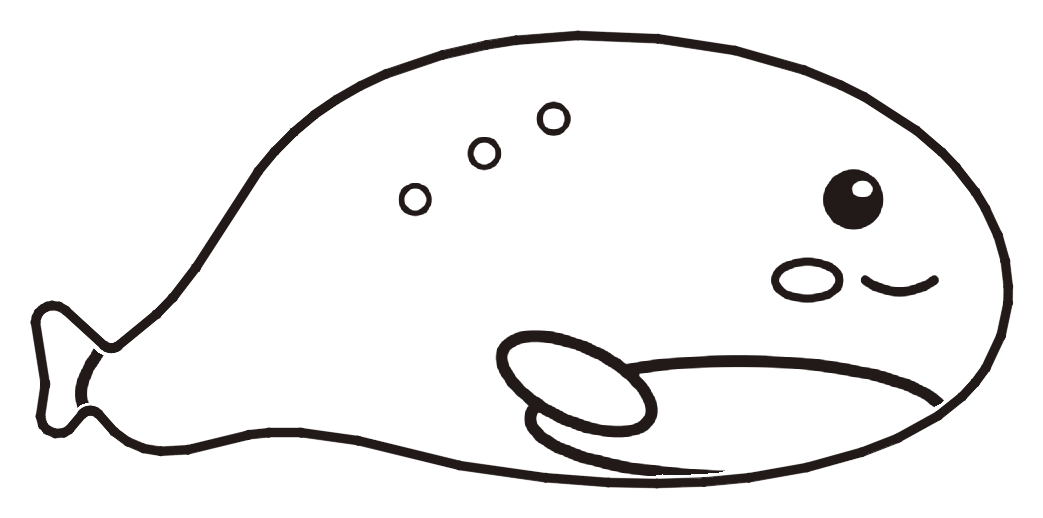
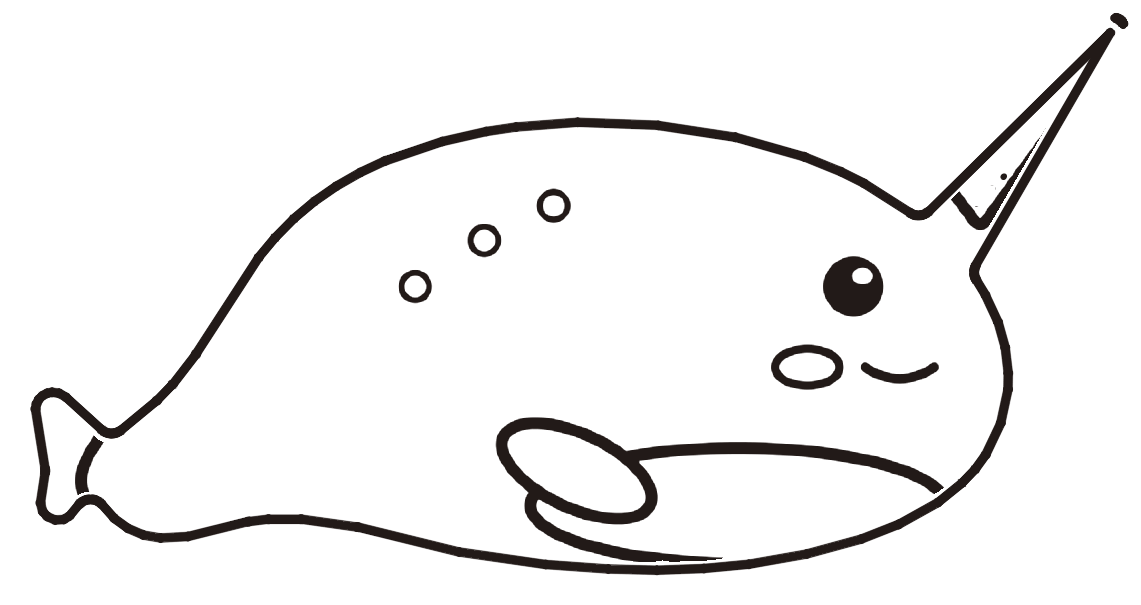
Magic camera: narwhal tusk is now part of the character (A4 + Letter); cache-bust data and ink
Claude-Session: https://claude.ai/code/session_01WWHA9uc1Bi6p4cqRHHAJrJ

diff --git a/scan/app.js b/scan/app.js
@@ -873,10 +873,10 @@ async function startWith(stream) {
   videoTex.minFilter = THREE.LinearFilter; videoTex.magFilter = THREE.LinearFilter; videoTex.generateMipmaps = false;
   bgMat.uniforms.uVideo.value = videoTex;
 
-  if (!data) data = await (await fetch(SHEET.parts)).json();
+  if (!data) data = await (await fetch(SHEET.parts + "?v=4")).json();
   if (data.clean && !inkTex) {   // a drawn character: fixed outline and lines, the camera only brings the colors
     CLEAN = true;
-    inkTex = await new THREE.TextureLoader().loadAsync(`targets/${data.clean.ink}?v=3`);
+    inkTex = await new THREE.TextureLoader().loadAsync(`targets/${data.clean.ink}?v=4`);
     inkTex.minFilter = THREE.LinearFilter; inkTex.generateMipmaps = false;
   }
   if (controller) controller.stopProcessVideo();

diff --git a/scan/index.html b/scan/index.html
@@ -126,6 +126,6 @@ input[type=file] { display: none; }
 <input type="file" id="file" accept="image/*">
 
 <script type="importmap">{ "imports": { "three": "./lib/three.module.js" } }</script>
-<script type="module" src="./app.js?v=20261124g"></script>
+<script type="module" src="./app.js?v=20261125a"></script>
 </body>
 </html>
